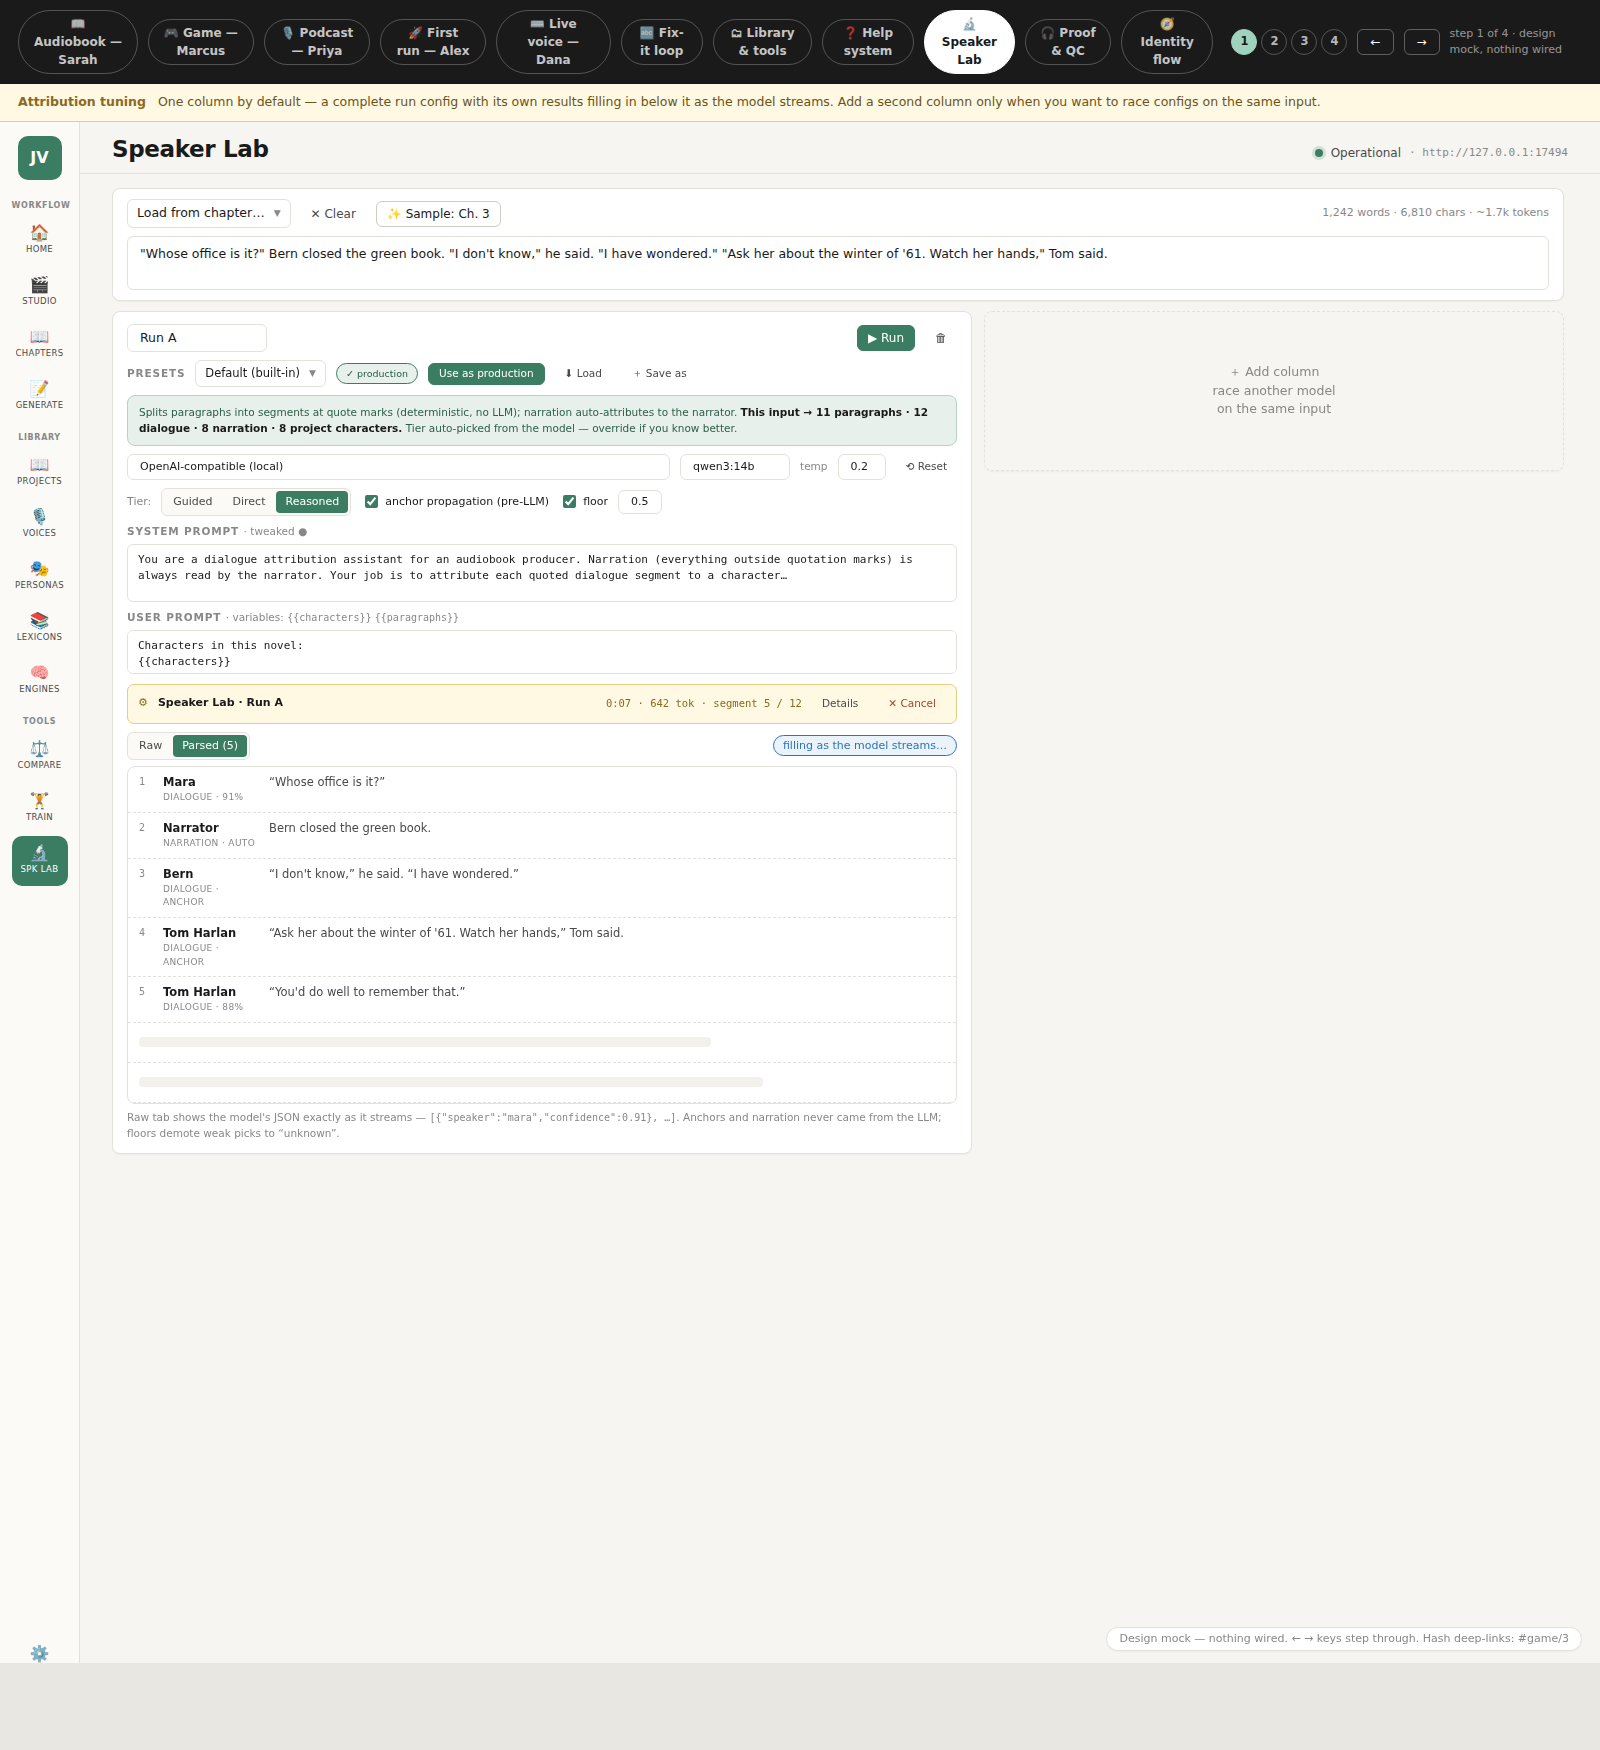
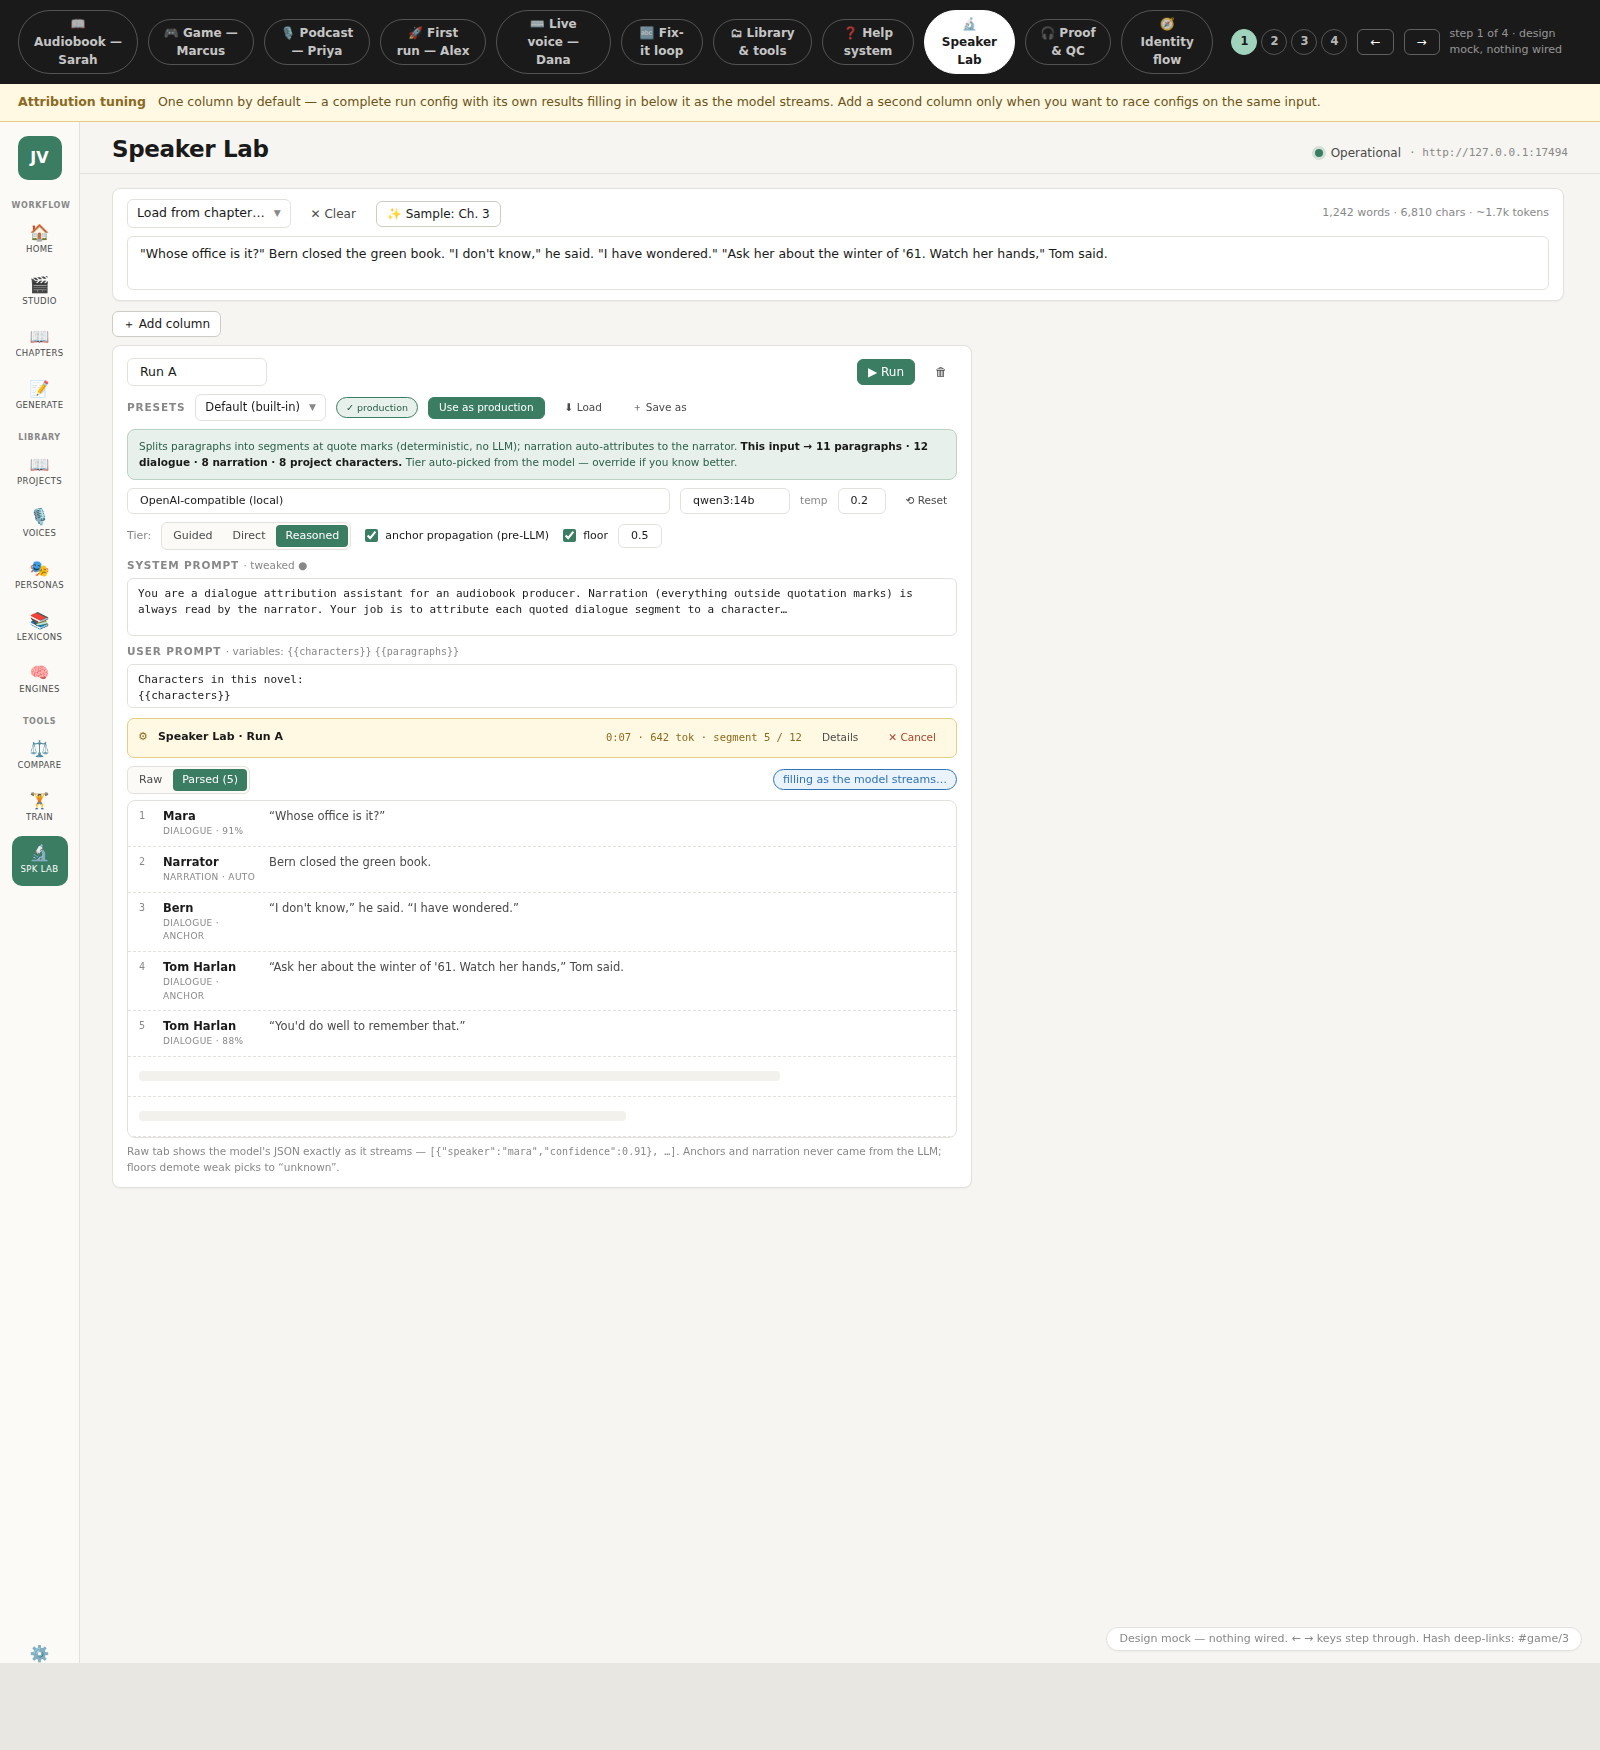
fix(design): Speaker Lab — Add column is a small button, dashed panel removed
https://claude.ai/code/session_01RnHLzYNeJn2GgAMKW1BPmR

Changed region(s): [[0.0625, 0.1851, 0.625, 0.6789], [0.7812, 0.216, 0.8438, 0.2469]]

diff --git a/preview/journeys-preview.html b/preview/journeys-preview.html
@@ -1295,7 +1295,8 @@ const stepsSplab = [
       <div class="row" style="margin-bottom:8px"><span class="combo-cell">Load from chapter…<span class="chev">▼</span></span><button class="btn ghost sm">✕ Clear</button><button class="btn secondary sm">✨ Sample: Ch. 3</button><span class="spacer"></span><span class="muted" style="font-size:11px">1,242 words · 6,810 chars · ~1.7k tokens</span></div>
       <textarea class="input" style="height:54px;padding:8px 12px;resize:none;font-size:12.5px">"Whose office is it?" Bern closed the green book. "I don't know," he said. "I have wondered." "Ask her about the winter of '61. Watch her hands," Tom said.</textarea>
     </div>
-    <div style="display:grid;grid-template-columns:minmax(0,860px) minmax(200px,1fr);gap:12px;margin-bottom:12px;align-items:start">
+    <div class="row" style="margin-bottom:8px"><button class="btn secondary sm">＋ Add column</button></div>
+    <div style="display:grid;grid-template-columns:minmax(0,860px);gap:12px;margin-bottom:12px;align-items:start">
       <div class="card" style="padding:12px 14px">
         <div class="row" style="flex-wrap:nowrap;margin-bottom:8px"><input class="input" style="height:28px;font-size:12.5px;max-width:140px" value="Run A"/><span class="spacer"></span><button class="btn sm">▶ Run</button><button class="btn ghost sm">🗑</button></div>
         <div class="row" style="flex-wrap:nowrap;margin-bottom:8px"><span class="eyebrow" style="flex:none">Presets</span><span class="combo-cell" style="font-size:11.5px">Default (built-in)<span class="chev">▼</span></span><span class="pill green" style="font-size:9.5px">✓ production</span><button class="btn sm" style="height:22px;font-size:10.5px">Use as production</button><button class="btn ghost sm" style="font-size:10.5px">⬇ Load</button><button class="btn ghost sm" style="font-size:10.5px">＋ Save as</button></div>
@@ -1325,7 +1326,6 @@ Paragraphs (dialogue segments tagged inline): {{paragraphs}}</textarea>
         </div>
         <p class="muted" style="font-size:10.5px;margin-top:6px">Raw tab shows the model's JSON exactly as it streams — <span class="mono" style="font-size:10px">[{"speaker":"mara","confidence":0.91}, …]</span>. Anchors and narration never came from the LLM; floors demote weak picks to “unknown”.</p>
       </div>
-      <button class="card" style="border-style:dashed;display:flex;align-items:center;justify-content:center;min-height:160px;cursor:pointer;color:var(--ink-3);font-size:12.5px;background:transparent">＋ Add column<br/>race another model<br/>on the same input</button>
     </div>
     </div>`) },
 
